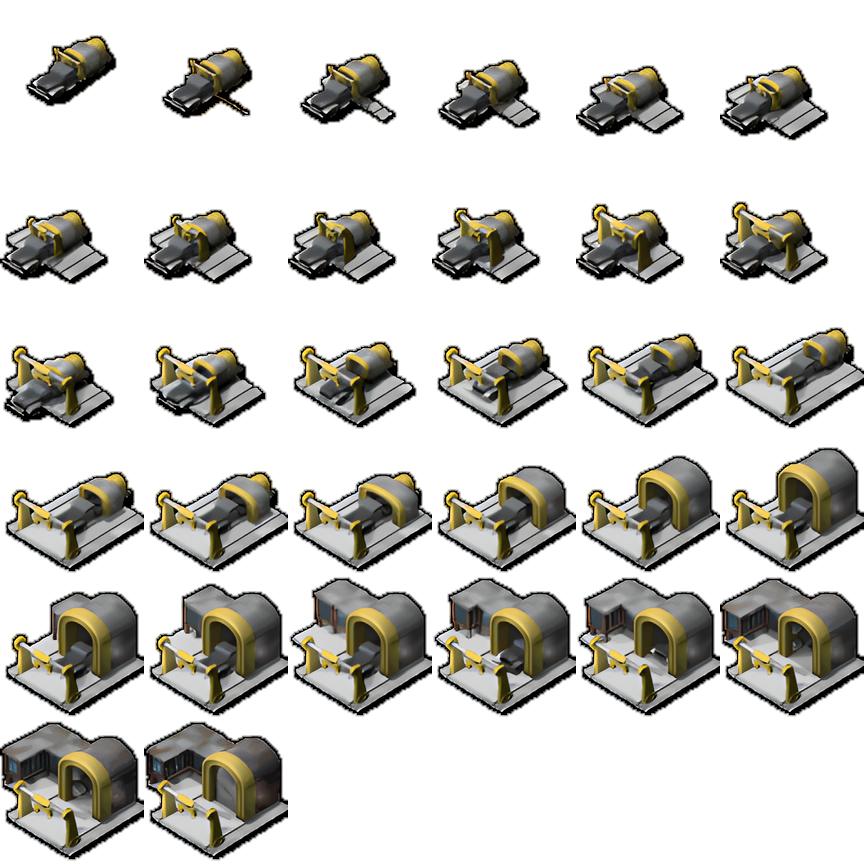
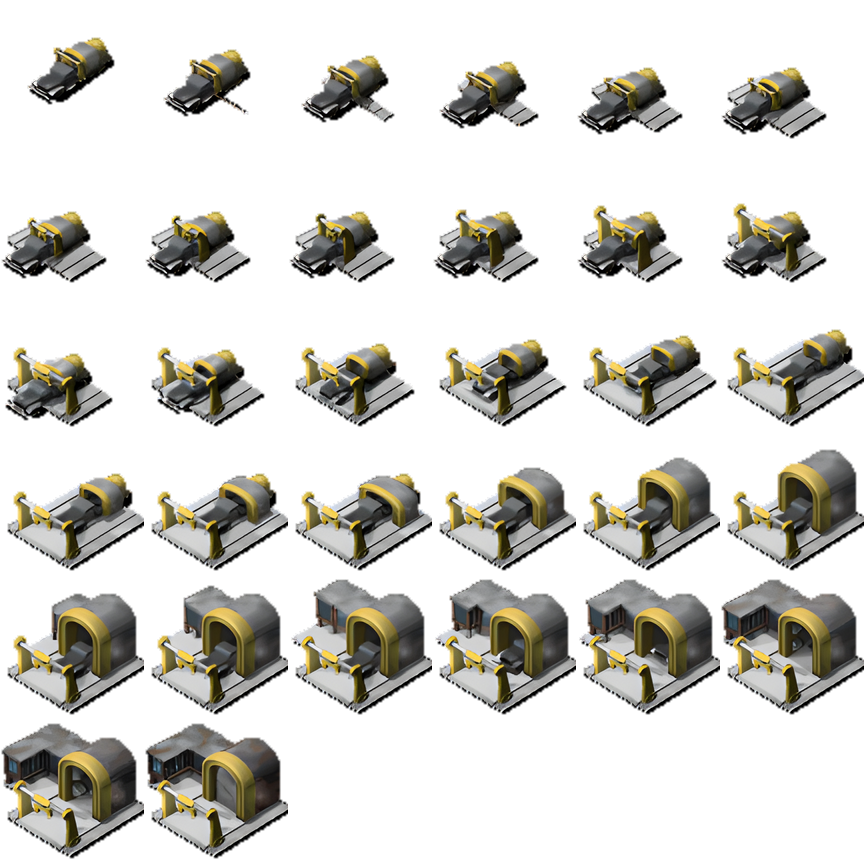
feat(renderer): add MinSaturation to PlayerColorShift + RGBA upscaled sprites
- Add MinSaturation parameter to PlayerColorShift trait (default 0, no-op for existing mods)
- Pass minSaturation via colorShiftBuffer[2] (previously unused range.b slot)
- Shader checks hsv.saturation >= minSaturation before applying color shift
- Set MinSaturation: 0.5 in RA palettes.yaml to prevent false-positive shifts on metal/grey
- Replace HD spritesheets with RGBA-pipeline versions (no black fringe)

diff --git a/OpenRA.Mods.Common/Traits/Palettes/PlayerColorShift.cs b/OpenRA.Mods.Common/Traits/Palettes/PlayerColorShift.cs
@@ -39,6 +39,9 @@ namespace OpenRA.Mods.Common.Traits
 		[Desc("Value reference for the color shift.")]
 		public readonly float ReferenceValue = 0.95f;
 
+		[Desc("Minimum saturation for a pixel to be shifted. Pixels below this threshold are left unchanged.")]
+		public readonly float MinSaturation = 0f;
+
 		public override object Create(ActorInitializer init) { return new PlayerColorShift(this); }
 	}
 
@@ -64,7 +67,7 @@ namespace OpenRA.Mods.Common.Traits
 			var (h, s, v) = Color.RgbToHsv(r, g, b);
 			wr.SetPaletteColorShift(paletteName,
 				h - info.ReferenceHue, s - info.ReferenceSaturation, v / info.ReferenceValue,
-				info.MinHue, info.MaxHue);
+				info.MinHue, info.MaxHue, info.MinSaturation);
 		}
 	}
 }

diff --git a/OpenRA.Game/Graphics/HardwarePalette.cs b/OpenRA.Game/Graphics/HardwarePalette.cs
@@ -96,11 +96,12 @@ namespace OpenRA.Graphics
 			CopyBufferToTexture();
 		}
 
-		public void SetColorShift(string name, float hueOffset, float satOffset, float valueMultiplier, float minHue, float maxHue)
+		public void SetColorShift(string name, float hueOffset, float satOffset, float valueMultiplier, float minHue, float maxHue, float minSaturation = 0f)
 		{
 			var index = GetPaletteIndex(name);
 			colorShiftBuffer[8 * index + 0] = minHue;
 			colorShiftBuffer[8 * index + 1] = maxHue;
+			colorShiftBuffer[8 * index + 2] = minSaturation;
 			colorShiftBuffer[8 * index + 4] = hueOffset;
 			colorShiftBuffer[8 * index + 5] = satOffset;
 			colorShiftBuffer[8 * index + 6] = valueMultiplier;

diff --git a/OpenRA.Game/Graphics/WorldRenderer.cs b/OpenRA.Game/Graphics/WorldRenderer.cs
@@ -139,9 +139,9 @@ namespace OpenRA.Graphics
 				paletteReference.Palette = pal;
 		}
 
-		public void SetPaletteColorShift(string name, float hueOffset, float satOffset, float valueModifier, float minHue, float maxHue)
+		public void SetPaletteColorShift(string name, float hueOffset, float satOffset, float valueModifier, float minHue, float maxHue, float minSaturation = 0f)
 		{
-			palette.SetColorShift(name, hueOffset, satOffset, valueModifier, minHue, maxHue);
+			palette.SetColorShift(name, hueOffset, satOffset, valueModifier, minHue, maxHue, minSaturation);
 		}
 
 		public bool HasPalette(string name)
